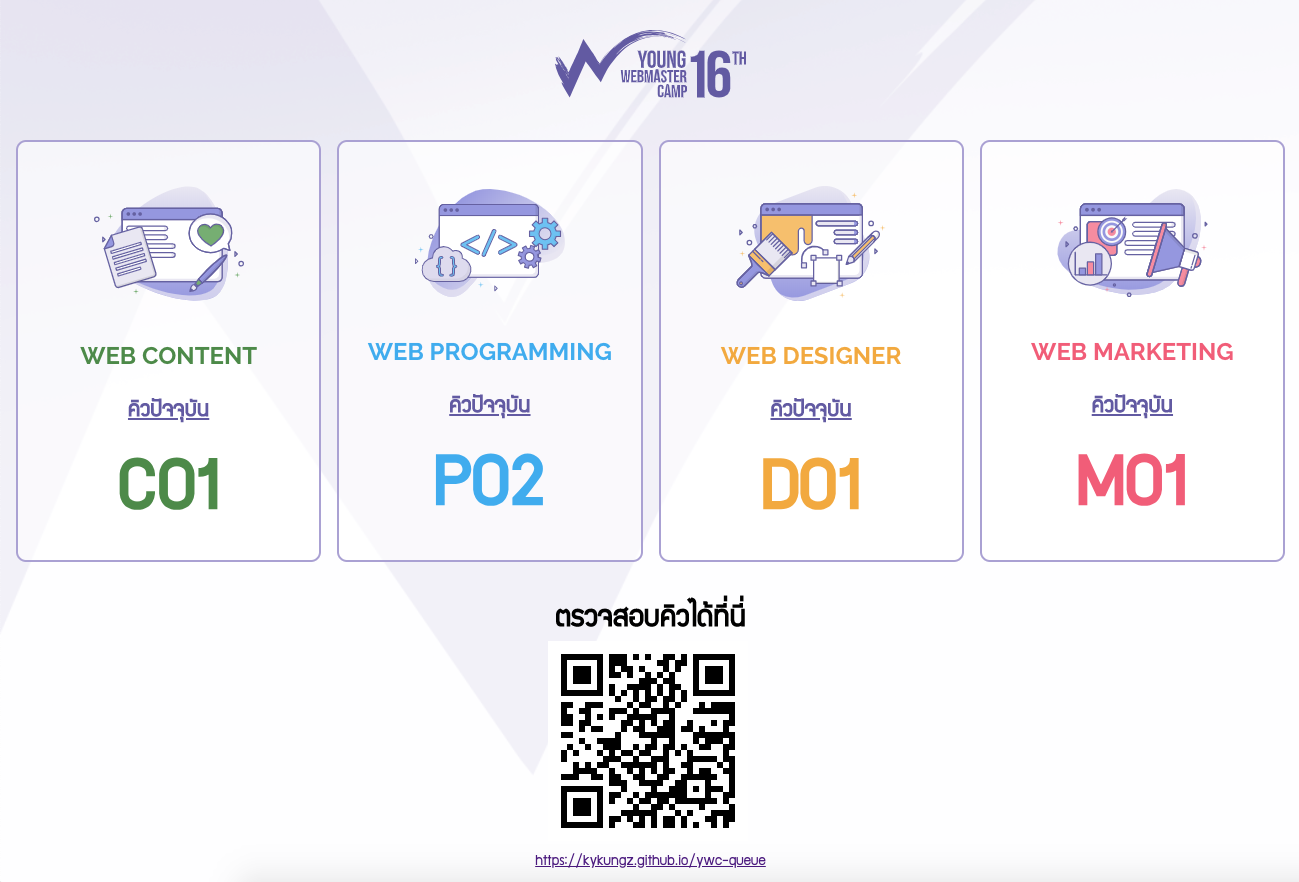
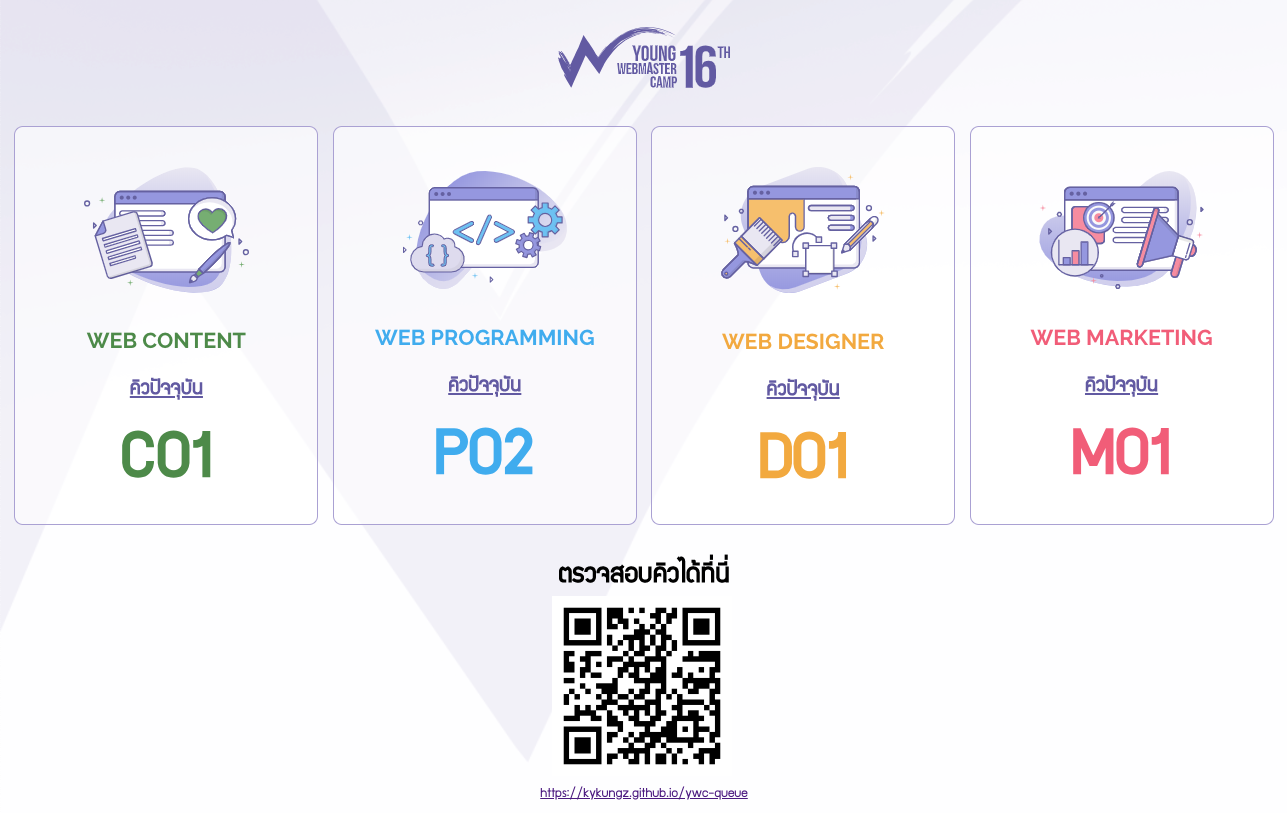
:memo: Edit images layout

diff --git a/README.md b/README.md
@@ -5,8 +5,11 @@
 <p align="center">https://kykungz.github.io/ywc-queue</p>
 
 ## Preview
-<img width="60%" src="./images/home2.png">
-<img width="32%" src="./images/admin.png">
+<div>
+<img width="64%" src="./images/home.png">
+<img width="34%" src="./images/admin.png">
+</div>
+
 
 ## Features
 - Home
